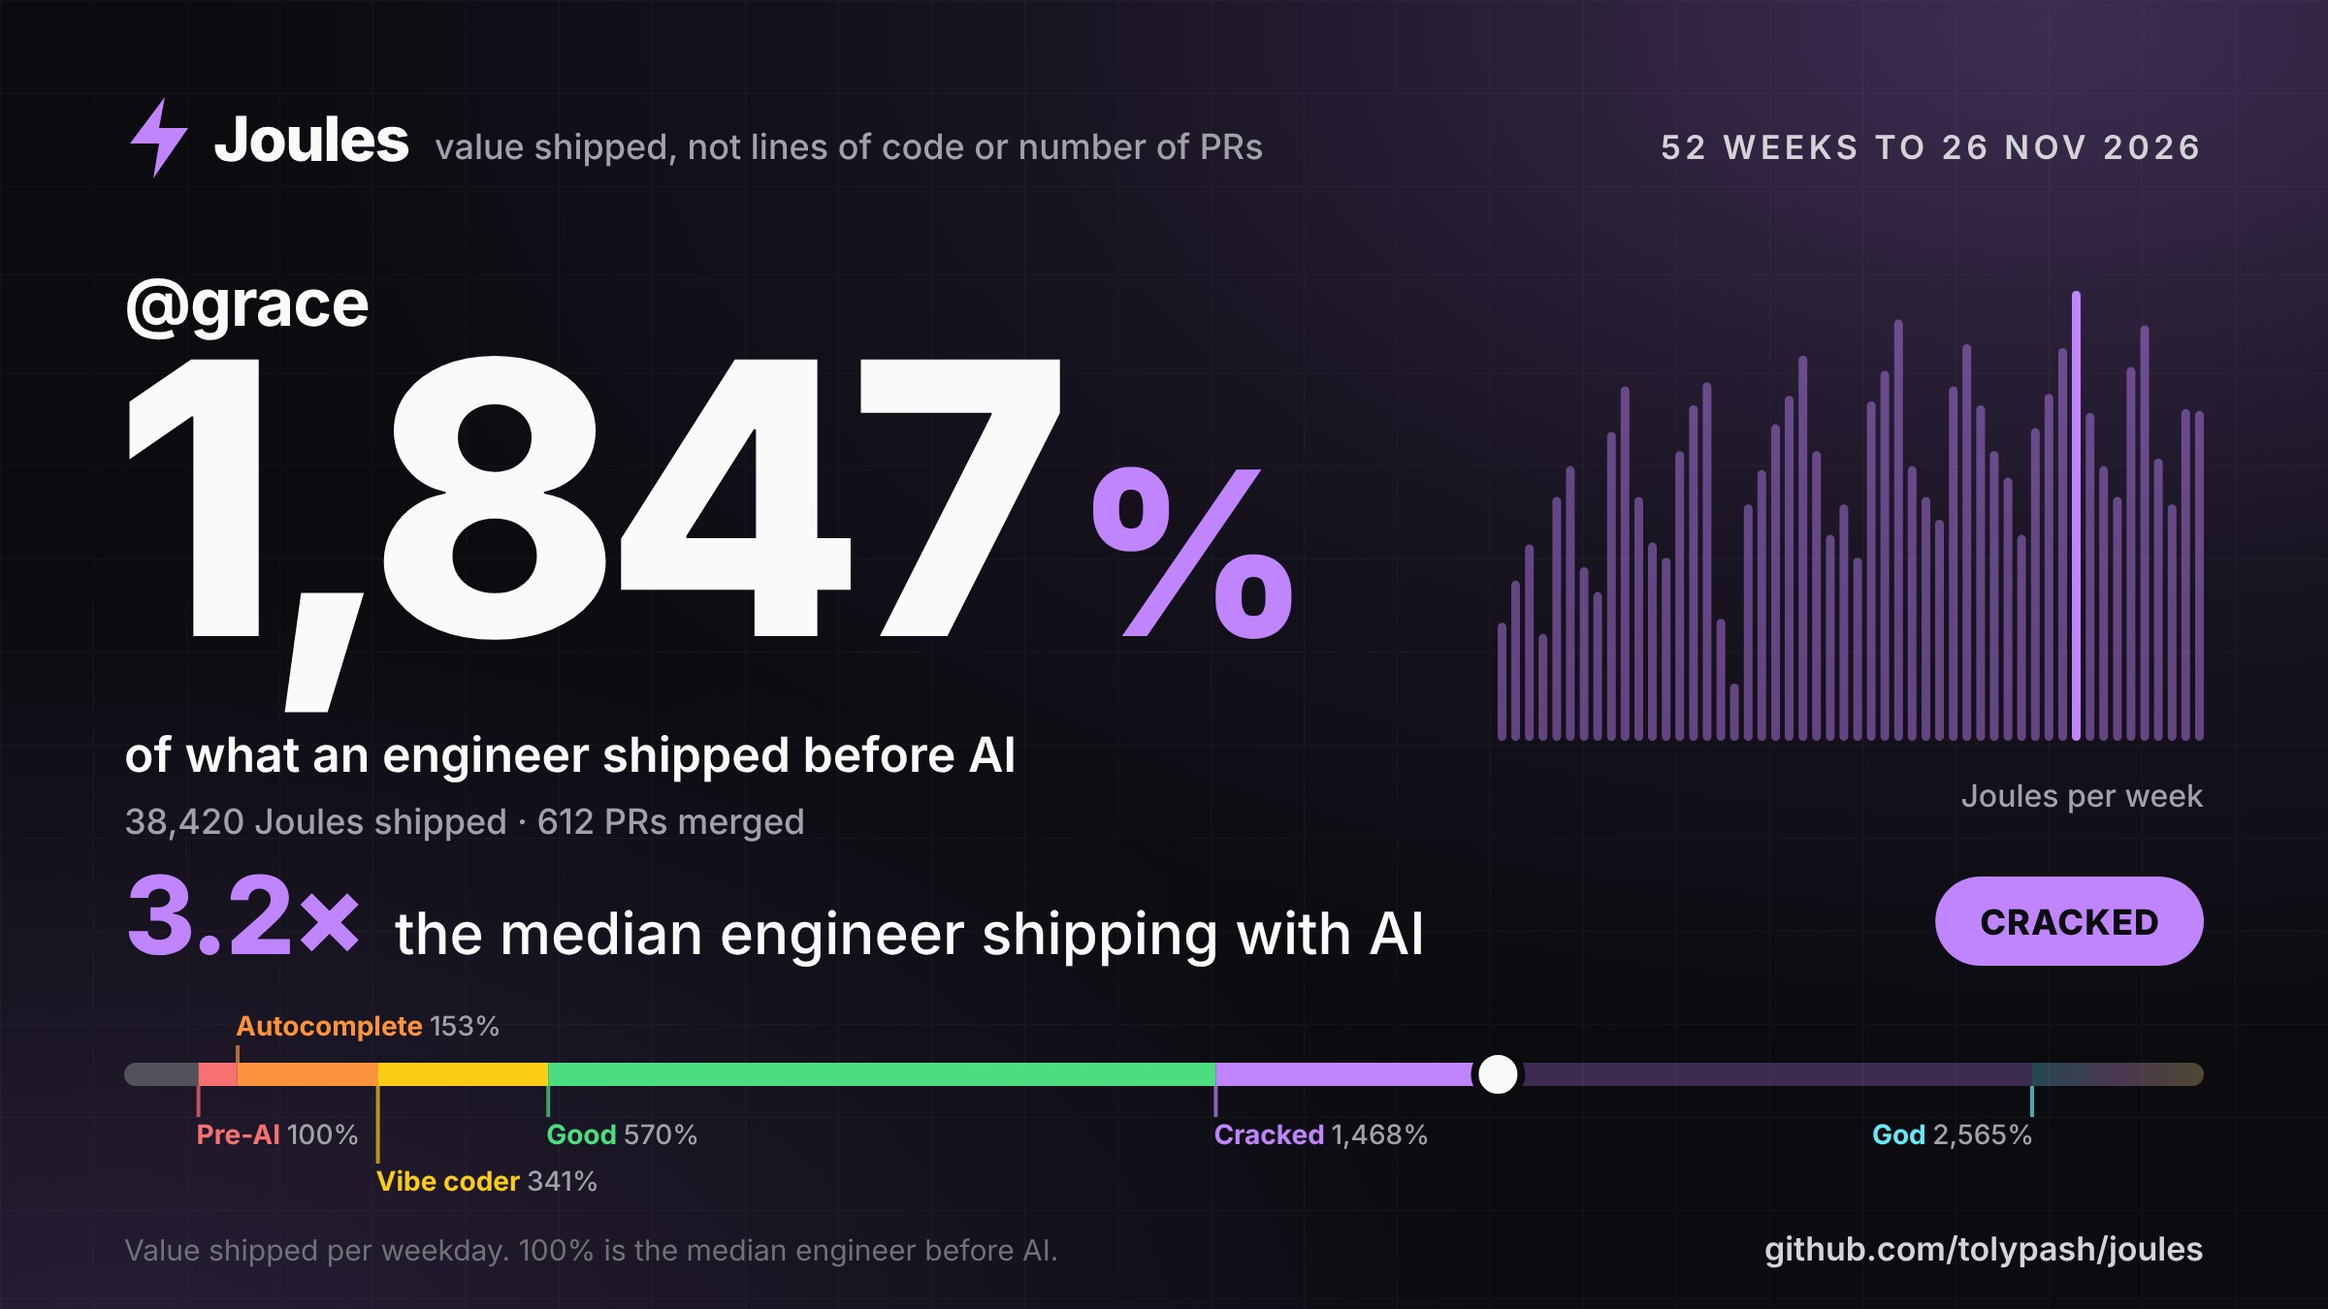
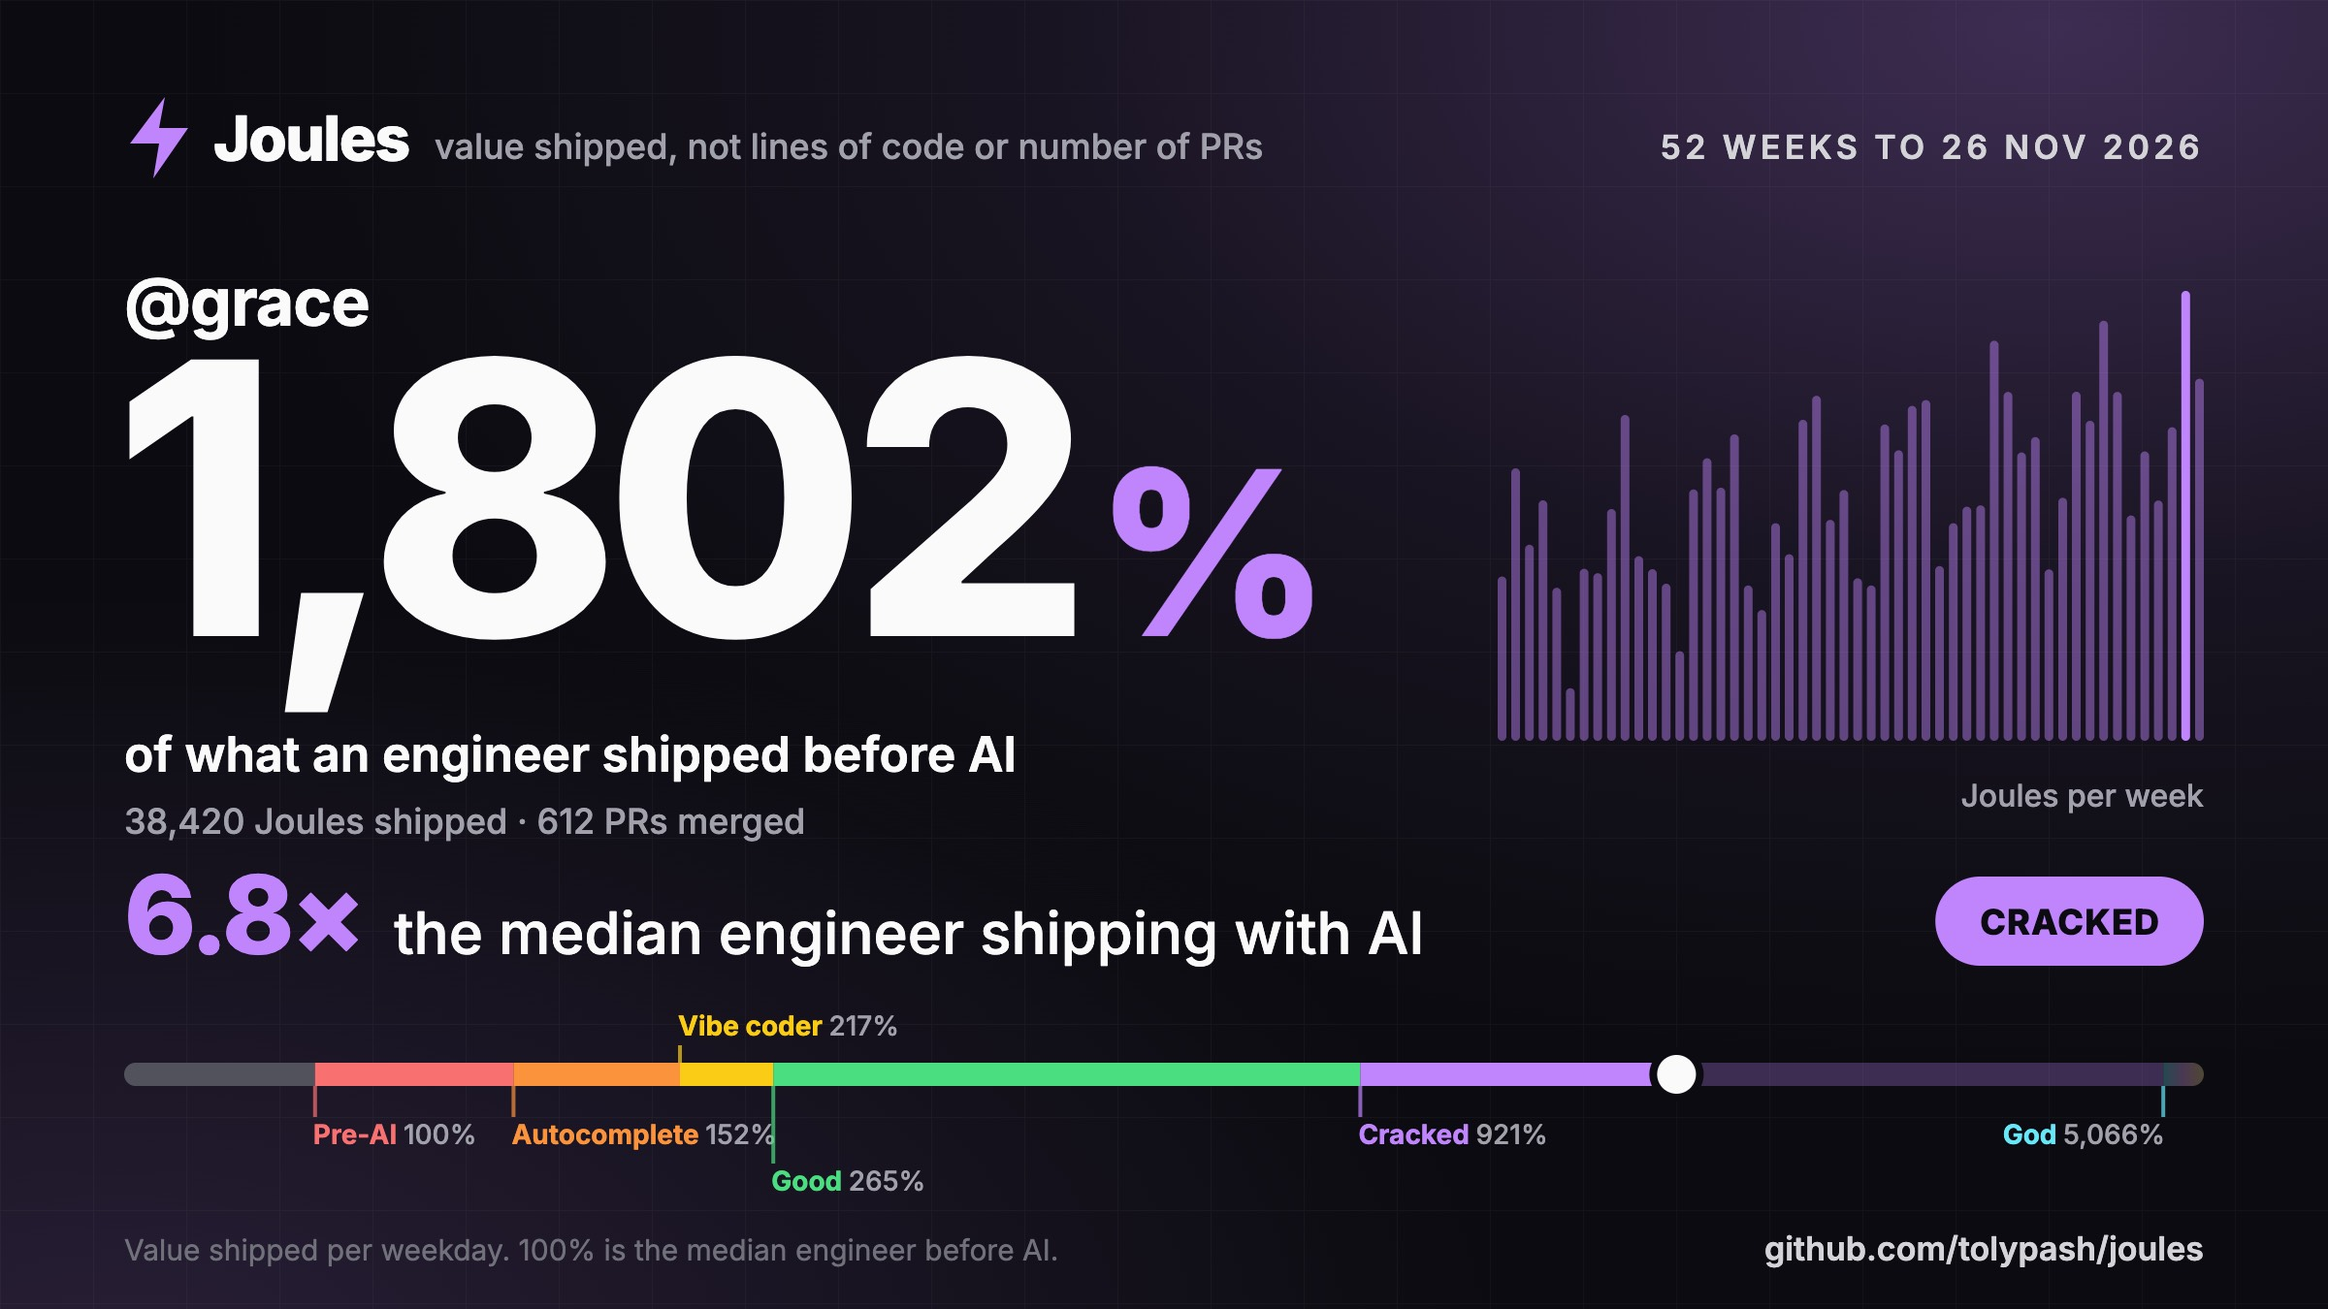
Levels from 8 repos, 30 PRs each, one rubric; the card's ladder on a log scale (#7)
* Calibrate searches a week at a time: a search stops at 1,000 results

Twenty merged 1,162 PRs in September 2026 and 1,655 in October, so the monthly
search silently dropped some of them and its AI-era counts came out low.

* Levels from 8 public repos, 30 PRs each, today's rubric; the card's ladder on a log scale

Pre-AI median 8.2 (71 engineers), good 21.7 and cracked 75.5 (128 engineers with AI),
from joules calibrate on Twenty, Novu, Formbricks, Documenso, n8n, Langfuse, Infisical
and Plane. The old numbers came from 4 repos, 10 to 12 PRs each, two rubric versions and
a search that dropped PRs past 1,000 a month. The top rung is now ~50x the first, so
the ladder is drawn on a log scale. The Sally team's own baseline is 13.4 with today's rubric.

* Review: the docs' ladder is checked against the data, comments and copy tightened

* Skill: the measured-on line reads as a sentence

* PR screenshot (removed in the next commit)

* Remove the PR screenshot

---------

diff --git a/src/stats.ts b/src/stats.ts
@@ -31,9 +31,9 @@ export type Stats = {
  * these against it). BASELINE: the median before AI (Q4 2024, before Claude 3.7 and agentic coding), so 100%
  * is that engineer. GOOD: the median with AI (August to October 2026). GREAT: the top 10% with AI.
  */
-export const BASELINE = 8;
-export const GOOD = 45.6;
-export const GREAT = 117.4;
+export const BASELINE = 8.2;
+export const GOOD = 21.7;
+export const GREAT = 75.5;
 
 /** Where someone sits against the pre-AI line (100%) and today's good and top-10% lines, all in %. */
 export function levelOf(efficiency: number, good: number, great: number): string {
@@ -159,7 +159,7 @@ ${o.note ? `<div class="note">${esc(o.note)}</div>` : ""}
 <div class="how">
 <div><b>Joules</b> is the value of the work (merged PRs, plus commits on branches with no PR): how long a senior engineer would need without AI × who it reaches (customers 3, the team 2, internal systems 1.5, only developers 1) × what it is (feature, fix or speed-up 1, refactor 0.7, tests 0.6, docs or chores 0.4, dependency bumps 0.3). Claude scores each PR; everything on this page is counted by plain code. A small fix is about 3 J, a solid feature 30 to 100 J.</div>
 <div><b>Typical day</b> is the middle value over the days someone shipped anything, so one huge day doesn't skew it. <b>Typical PR</b> is the same for single PRs.</div>
-<div><b>Efficiency</b> is Joules per weekday against a typical full-time engineer before AI: ${o.baseline} J a day, measured with <code>joules calibrate</code> on work from before Claude 3.7 and agentic coding${o.baseline === BASELINE ? " (the median of 39 full-time engineers on Twenty, Novu, Formbricks, Documenso and three of our own repos, Q4 2024)" : " (this team's own median)"}. <b>Good today is ${good}%</b> (${GOOD} J a day): what the typical full-time engineer at Twenty, Novu, Formbricks and Documenso ships with AI, August to October 2026. <b>Cracked is ${great}%</b> (${GREAT} J a day), their top 10%. Below 100% is below pre-AI; between 100% and ${good}% is below today's typical. Red is low, green good, purple cracked. Part-timers are measured against their own hours when marked part-time; people who also work in other repos read low.</div>
+<div><b>Efficiency</b> is Joules per weekday against a typical full-time engineer before AI: ${o.baseline} J a day, measured with <code>joules calibrate</code> on work from before Claude 3.7 and agentic coding${o.baseline === BASELINE ? " (the median of 71 full-time engineers on eight public product repos, Q4 2024)" : " (this team's own median)"}. <b>Good today is ${good}%</b> (${GOOD} J a day): what the typical full-time engineer on those repos ships with AI, August to October 2026. <b>Cracked is ${great}%</b> (${GREAT} J a day), their top 10%. Below 100% is below pre-AI; between 100% and ${good}% is below today's typical. Red is low, green good, purple cracked. Part-timers are measured against their own hours when marked part-time; people who also work in other repos read low.</div>
 <div><b>Needed a fix after</b>: PRs merged ${SETTLE_DAYS}+ days ago that were reverted or fixed again by a later PR pointing back at them. Lower is better; it only sees fixes that link the PR.</div>
 </div></body></html>`;
 }

diff --git a/skill/joules/card.html b/skill/joules/card.html
@@ -40,13 +40,13 @@
 </main>
 <script>
 // The numbers on the card: replace this one line. `bars` is Joules over time, oldest first (per day, or per week for a year).
-// Optional `baseline`: a team's own Joules per weekday before AI, in place of the measured 8.
+// Optional `baseline`: a team's own Joules per weekday before AI, in place of the measured 8.2.
 const DATA = {"who":"@ada","period":"4 weeks to 26 Nov 2026","joules":1612,"weekdays":20,"prs":41,"bars":[64,0,0,38,112,71,0,96,0,12,45,134,88,57,120,0,0,76,41,163,92,68,9,0,54,108,85,79]};
 
 // Joules per weekday, measured (data/): the median engineer before AI, then engineers shipping with AI at the
 // 25th and 40th percentile, the median, the top 10% and the highest. The names are ours.
-const LADDER = [["Pre-AI", 8], ["Autocomplete", 12.2], ["Vibe coder", 27.3], ["Good", 45.6], ["Cracked", 117.4], ["God", 205.2]];
-const MEDIAN = 45.6;
+const LADDER = [["Pre-AI", 8.2], ["Autocomplete", 12.5], ["Vibe coder", 17.8], ["Good", 21.7], ["Cracked", 75.5], ["God", 415.4]];
+const MEDIAN = 21.7;
 const COLORS = { "Pre-AI": "#f87171", Autocomplete: "#fb923c", "Vibe coder": "#facc15", Good: "#4ade80", Cracked: "#c084fc", God: "#67e8f9" };
 const LINK = "github.com/tolypash/joules";
 const W = 1200;
@@ -55,7 +55,7 @@ const PAD = 64;
 
 const esc = (s) => String(s).replace(/[&<>"]/g, (c) => ({ "&": "&amp;", "<": "&lt;", ">": "&gt;", '"': "&quot;" })[c]);
 const whole = (n) => Math.round(n).toLocaleString("en-US");
-/** One decimal under 100 (45.6), none above (117). */
+/** One decimal under 100 (21.7), none above (415). */
 const short = (n) => (n >= 100 ? whole(n) : String(Math.round(n * 10) / 10));
 
 // Output: Joules per weekday as a percentage of the median engineer before AI (or the team's own pre-AI line, `baseline`).
@@ -76,9 +76,11 @@ function draw() {
   const digits = whole(pct(perWeekday));
   const size = digits.length <= 5 ? 196 : digits.length === 6 ? 168 : 144;
   const track = W - 2 * PAD;
-  // The line is to scale: twice the output sits twice as far along.
+  // A log scale: each doubling of output is the same step, so the low rungs don't crowd when the top one is far out.
+  // It starts a little below the first rung to leave the grey stretch before it; anything lower sits at the start.
+  const start = rungs[0].v / 1.5;
   const end = Math.max(rungs.at(-1).v * 1.09, perWeekday * 1.04);
-  const at = (v) => PAD + (track * v) / end;
+  const at = (v) => PAD + (track * Math.log(Math.max(v, start) / start)) / Math.log(end / start);
   const you = at(perWeekday);
 
   // Joules over time, as a skyline on the right, the best bar at full strength.

diff --git a/test/joules.test.ts b/test/joules.test.ts
@@ -143,6 +143,10 @@ test("the levels are the measured percentiles", () => {
   const ai = (p: number) => percentile(perWeekday("ai-era-2026.tsv"), p);
   expect(card).toContain(`const LADDER = [["Pre-AI", ${BASELINE}], ["Autocomplete", ${ai(0.25)}], ["Vibe coder", ${ai(0.4)}], ["Good", ${GOOD}], ["Cracked", ${GREAT}], ["God", ${ai(1)}]];`);
   expect(card).toContain(`const MEDIAN = ${GOOD};`);
+  // So do the README and the skill, in words.
+  const pct = (v: number) => `${Math.round((v / BASELINE) * 100).toLocaleString("en-US")}%`;
+  const ladder = `Pre-AI (100%), Autocomplete (${pct(ai(0.25))}), Vibe coder (${pct(ai(0.4))}), Good (${pct(GOOD)}, today's median), Cracked (${pct(GREAT)}, the top 10%) and God (${pct(ai(1))}, the highest measured)`;
+  for (const doc of ["../README.md", "../skill/joules/SKILL.md"]) expect(readFileSync(new URL(doc, import.meta.url), "utf8")).toContain(ladder);
 });
 
 test("the share card counts one person's window: total, weekdays, PRs and a bar per day or week", () => {

diff --git a/skill/joules/SKILL.md b/skill/joules/SKILL.md
@@ -36,21 +36,23 @@ Use these when asked how an engineer or a team is doing. Add up the Joules in th
 
 | | 25th pct | Median | 75th pct | Top 10% | Median PR |
 |---|---:|---:|---:|---:|---:|
-| Before AI: 39 engineers, Twenty, Novu, Formbricks, Documenso and three private product repos, Q4 2024 | 4.8 | **8** | 15 | 24.2 | 12.9 J |
-| With AI: 33 engineers, Twenty, Novu, Formbricks, Documenso, Aug to Oct 2026 | 12.2 | **45.6** | 71.3 | 117.4 | 22.7 J |
+| Before AI: 71 engineers, Q4 2024 | 5 | **8.2** | 13.2 | 18 | 15.3 J |
+| With AI: 128 engineers, Aug to Oct 2026 | 12.5 | **21.7** | 40.7 | 75.5 | 27.1 J |
 
-So with AI the median engineer ships about 5.7× the Joules of the median engineer before AI, and the median PR is worth about 1.8× as much. The raw numbers are in [data/](https://github.com/tolypash/joules/tree/main/data).
+Both are measured on the same eight public product repos (Twenty, Novu, Formbricks, Documenso, n8n, Langfuse, Infisical and Plane), with 30 sampled PRs per engineer.
+
+So with AI the median engineer ships about 2.6× the Joules of the median engineer before AI, and the median PR is worth about 1.8× as much. The raw numbers are in [data/](https://github.com/tolypash/joules/tree/main/data).
 
 **Efficiency** = Joules per weekday ÷ the pre-AI median × 100. 100% is the same output as the median engineer before AI; 300% is three times as much. Part-timers: divide by their share of a full week first (0.5 for half time).
 
 | Level | Joules per weekday | Efficiency |
 |---|---|---|
-| Below pre-AI | under 8 | under 100% |
-| Below typical (today's median) | 8 to 45.6 | 100% to 570% |
-| Good: today's median, with AI | 45.6 or more | 570% or more |
-| Cracked: today's top 10% | 117.4 or more | 1,468% or more |
+| Below pre-AI | under 8.2 | under 100% |
+| Below typical (today's median) | 8.2 to 21.7 | 100% to 265% |
+| Good: today's median, with AI | 21.7 or more | 265% or more |
+| Cracked: today's top 10% | 75.5 or more | 921% or more |
 
-**A team's own baseline.** A team with its own history before AI can measure it with the Joules CLI (needs [Bun](https://bun.sh)): `bunx joules-cli calibrate --repos owner/repo --from 2024-07-01 --to 2024-12-31` (`--commits` when it didn't use PRs) and use that instead of 8. One product team measured 14.2 J (3 full-time engineers, July to December 2024); against it good is 321% and cracked 827%.
+**A team's own baseline.** A team with its own history before AI can measure it with the Joules CLI (needs [Bun](https://bun.sh)): `bunx joules-cli calibrate --repos owner/repo --from 2024-07-01 --to 2024-12-31` (`--commits` when it didn't use PRs) and use that instead of 8.2. One product team measured 13.4 J (3 full-time engineers, July to December 2024, `--commits`); against it good is 162% and cracked 563%.
 
 **Reading it fairly:**
 - Count weeks, not single PRs: one PR's score is an estimate.
@@ -78,9 +80,9 @@ When someone asks to share their Joules (a card, a post, "my week in Joules"), m
    google-chrome --headless --screenshot=joules-card.png --window-size=1200,675 --force-device-scale-factor=2 --virtual-time-budget=2000 "file://$PWD/joules-card.html#png"
    ```
 
-5. Tell them their line, ready to post: `⚡ 1,007% output · 4 weeks to 26 Nov 2026 · 1.8× the median engineer shipping with AI (Good)`.
+5. Tell them their line, ready to post: `⚡ 983% output · 4 weeks to 26 Nov 2026 · 3.7× the median engineer shipping with AI (Cracked)`.
 
-The ladder's rungs are measured output with names of our own, each in its colour and drawn to scale: Pre-AI (100%), Autocomplete (153%), Vibe coder (341%), Good (570%, today's median), Cracked (1,468%, the top 10%) and God (2,565%, the highest measured). Autocomplete and Vibe coder are the 25th and 40th percentile of engineers shipping with AI. For a team with its own pre-AI baseline, add `"baseline":14.2` to the line. With the Joules CLI (needs [Bun](https://bun.sh)) steps 2 to 4 are one command, which also scores PRs that have no block: `bunx joules-cli card --period month`.
+The ladder's rungs are measured output with names of our own, each in its colour and drawn to a log scale: Pre-AI (100%), Autocomplete (152%), Vibe coder (217%), Good (265%, today's median), Cracked (921%, the top 10%) and God (5,066%, the highest measured). Autocomplete and Vibe coder are the 25th and 40th percentile of engineers shipping with AI. For a team with its own pre-AI baseline, add `"baseline":13.4` to the line. With the Joules CLI (needs [Bun](https://bun.sh)) steps 2 to 4 are one command, which also scores PRs that have no block: `bunx joules-cli card --period month`.
 
 ## Shipping well with AI
 

diff --git a/README.md b/README.md
@@ -2,7 +2,7 @@
 
 See the energy your team ships.
 
-![A Joules card: 1,007% output over four weeks, 1.8× the median engineer shipping with AI](docs/card.jpg)
+![A Joules card: 983% output over four weeks, 3.7× the median engineer shipping with AI](docs/card.jpg)
 
 Joules gives every pull request a score for the value it delivers: what it does, who feels it and how hard it was. Not lines of code, not PR count. With AI writing thousands of lines in minutes, those numbers stopped meaning anything. A one-line fix to a payment bug can be worth more than a 5,000-line scaffold, and Joules says so.
 
@@ -42,12 +42,12 @@ bunx joules-cli card --period year --repos acme/shop,acme/api    # or week; any 
 It writes `joules-card.png` (when the machine has Chrome) and opens `joules-card.html`: the card, a Copy image button, and Post on X with the text already written. Or ask your agent to "share my Joules": the skill makes the same card with no CLI.
 
 - **One number: your output.** Joules per weekday as a percentage of what an engineer shipped before AI (the same efficiency the team view shows), and next to it how many times the median engineer shipping with AI that is.
-- **A colour-coded ladder, drawn to scale:** Pre-AI (100%), Autocomplete (153%), Vibe coder (341%), Good (570%, today's median), Cracked (1,468%, the top 10%) and God (2,565%, the highest measured). The card takes the colour of the rung you reached.
+- **A colour-coded ladder, drawn to a log scale:** Pre-AI (100%), Autocomplete (152%), Vibe coder (217%), Good (265%, today's median), Cracked (921%, the top 10%) and God (5,066%, the highest measured). The card takes the colour of the rung you reached.
 - **Numbers only.** No repo names and no PR titles, so it is safe to post from private work.
 - **Week, month or year:** the last 7 days, 4 weeks or 52 weeks, each with its skyline of Joules per day or per week.
 
 
-![A Cracked card: 1,847% output over 52 weeks, 3.2× the median](docs/card-cracked.jpg)
+![A Cracked card: 1,802% output over 52 weeks, 6.8× the median](docs/card-cracked.jpg)
 
 ## Set it up
 
@@ -59,10 +59,10 @@ It writes `joules-card.png` (when the machine has Chrome) and opens `joules-card
 
 | Joules per weekday, full-time engineers | Median | Top 10% |
 |---|---:|---:|
-| Before AI (39 engineers, Q4 2024) | 8 | 24.2 |
-| With AI (33 engineers, Aug to Oct 2026) | 45.6 | 117.4 |
+| Before AI (71 engineers, Q4 2024) | 8.2 | 18 |
+| With AI (128 engineers, Aug to Oct 2026) | 21.7 | 75.5 |
 
-Efficiency is Joules per weekday against the pre-AI median: 100% is the same output as before AI, good today is 570%, cracked (the top 10%) 1,468%. The full table, a team's own baseline and how to read it fairly are in [the skill](skill/joules/SKILL.md#whats-good-the-measured-numbers); the raw numbers in [data/](data).
+Efficiency is Joules per weekday against the pre-AI median: 100% is the same output as before AI, good today is 265%, cracked (the top 10%) 921%. The full table, a team's own baseline and how to read it fairly are in [the skill](skill/joules/SKILL.md#whats-good-the-measured-numbers); the raw numbers in [data/](data).
 
 **The CLI.** Needs [Bun](https://bun.sh), the [Claude Code CLI](https://docs.claude.com/claude-code) signed in, and `gh` signed in (or `GITHUB_TOKEN`).
 
